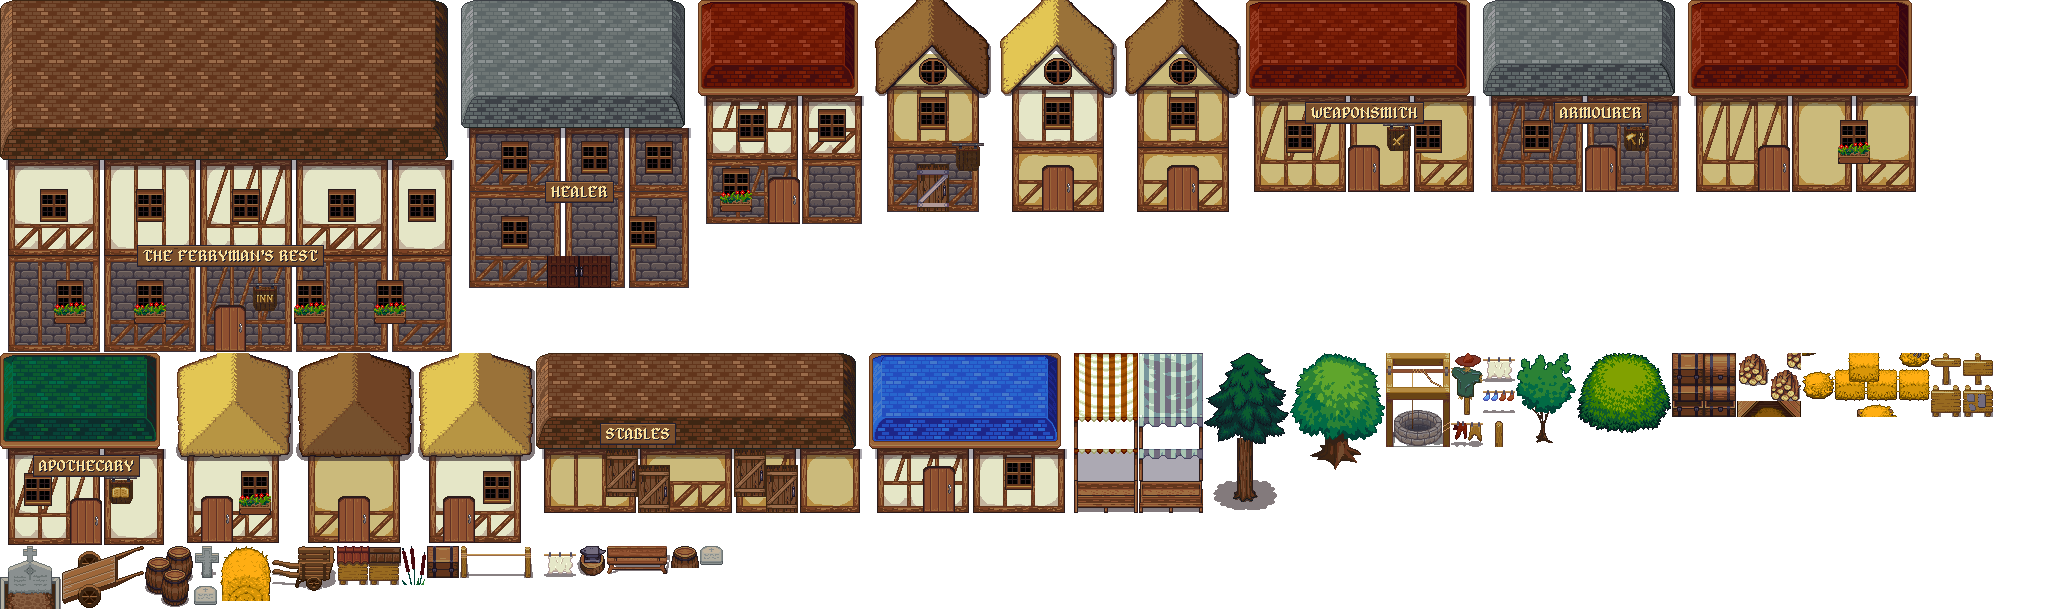
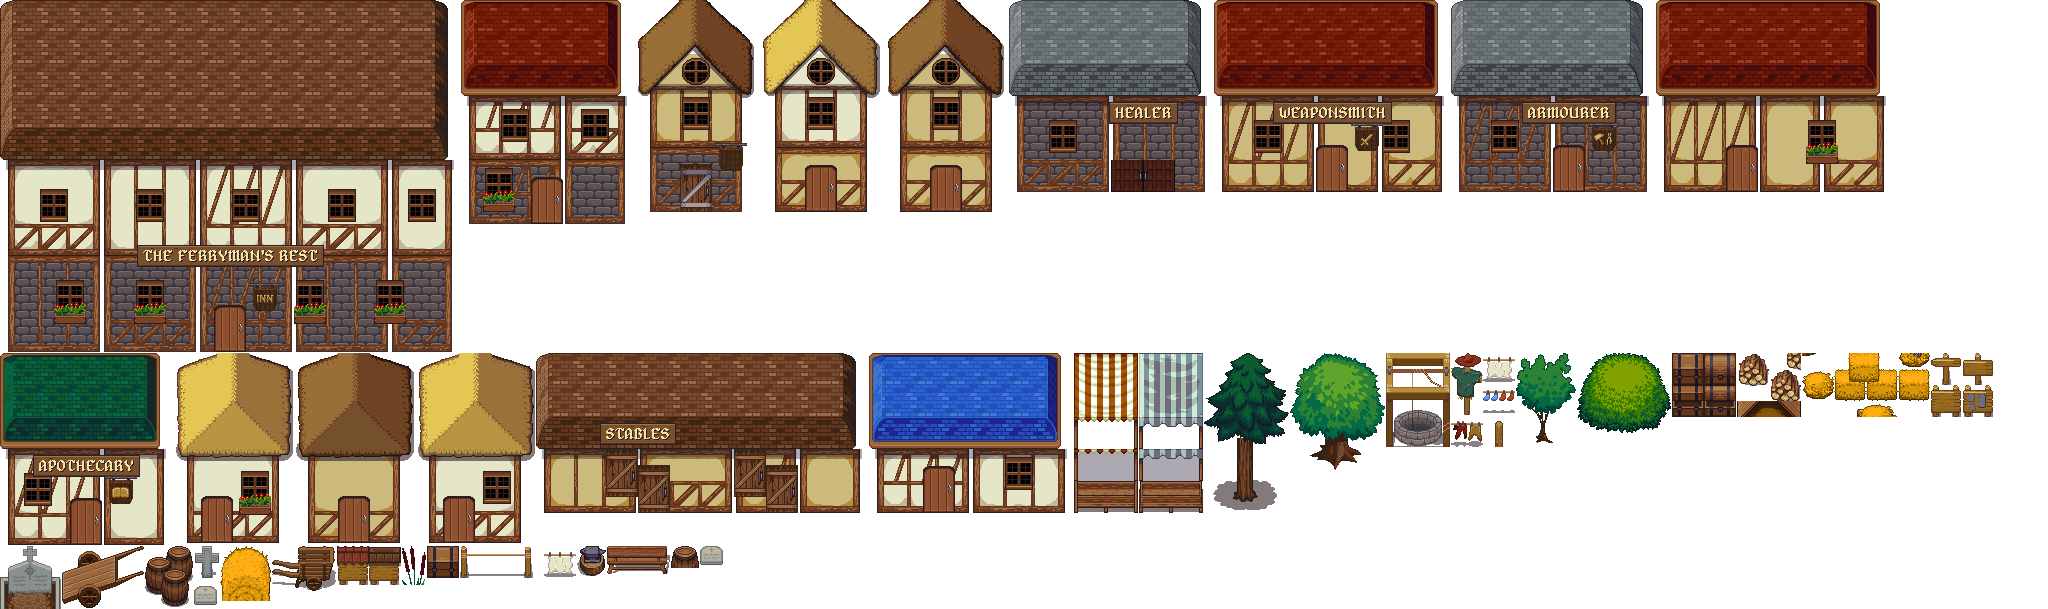
Sync from private repo

Changed region(s): [[0.2188, 0.0, 0.9375, 0.4992]]

diff --git a/derived-art/source/tools/towngen.py b/derived-art/source/tools/towngen.py
@@ -1411,7 +1411,7 @@ def riverhold():
     t.lane([(17, 16), (17, 9), (16, 6)], half=1)          # the alley behind the smithy
     t.lane([(39, 17), (39, 22)], half=1)                  # the armourer's door to the road
     t.lane([(34, 16), (35, 6), (40, 5)], half=1)          # round the armourer to the graves
-    t.lane([(4, 19), (4, 23)], half=1)                    # the healer's door, by the gate
+    t.lane([(5, 18), (5, 23)], half=1)                    # the healer's door, by the gate
     t.lane([(17, 28), (17, 37), (40, 37)], half=1)        # the riverside walk behind the shops
     t.lane([(26, 28), (26, 30)], half=1)
     t.lane([(34, 28), (34, 37)], half=1)
@@ -1429,9 +1429,11 @@ def riverhold():
                         sign="THE FERRYMAN'S REST", icon='inn', inside=dict(name='inn', kind='inn', size=(19, 12))))
     t.torch(24.6, 14.5)     # torches either side of the inn door, lit at dusk
     t.torch(27.4, 14.5)
-    # The healer's, just inside the gate (the user's: you come into town to be healed, and shouldn't have to cross it)
-    healer = b(1, 10, dict(w=7, roof=4, storeys=[('stone', 3), ('stone', 2)], roof_kind='slate',
-                           doors=[dict(at=3.5, kind='arched')], windows=[1.5, 5.5], sign='HEALER',
+    # The healer's, just inside the gate (the user's: you come into town to be healed, and shouldn't have to cross it),
+    # where the armourer's stood and its size (the user's, November 2026: bigger and nearer the gate, it and its wall
+    # seemed all the town there was; smaller, the weaponsmith's beside it showed there was more to see)
+    healer = b(1, 12, dict(w=6, roof=3, storeys=[('stone', 3)], roof_kind='slate',
+                           doors=[dict(at=4, kind='arched')], windows=[1.5], sign='HEALER',
                            styles=('posts', 'plain', 'posts'), inside=dict(name='healer', kind='healer', size=(12, 9))))
     smith = b(8, 9, dict(w=7, roof=3, storeys=[('tan', 3)], roof_kind='red', doors=[dict(at=3.5)],
                          windows=[1.5, 5.5], sign='WEAPONSMITH', icon='sword', inside=dict(name='weapons', kind='weapons', size=(9, 8))))
@@ -1476,7 +1478,7 @@ def riverhold():
     p('notice', 28.5, 16.3)
     # Around the buildings
     p('anvil', 14.2, 16.2)
-    p('woodpile', 15.6, 13.2)
+    p('woodpile', 7, 14.9)
     p('hay', 2.2, 32)
     p('hay_bales', 4.5, 35.5)
     p('cart', 8.5, 35)
@@ -1513,7 +1515,7 @@ def riverhold():
         trees.append(('pine', W - 1.2, y + 1.5))
     for x, y in ((51.8, 16), (57, 18), (52.5, 25.5), (58, 26), (57.5, 39), (51.6, 36), (44.2, 12),
                  (44.5, 33.5), (30.5, 1.2), (33.5, 2), (10.6, 39.3), (5.2, 39.3),
-                 (42.6, 21), (34, 31.5), (8.6, 38.2)):
+                 (42.6, 21), (34, 31.5), (2.3, 9.6), (8.6, 38.2)):
         trees.append(('oak' if int(x + y) % 3 else 'tree', x, y))
     for kind, x, y in trees:
         p(kind, x, y)
